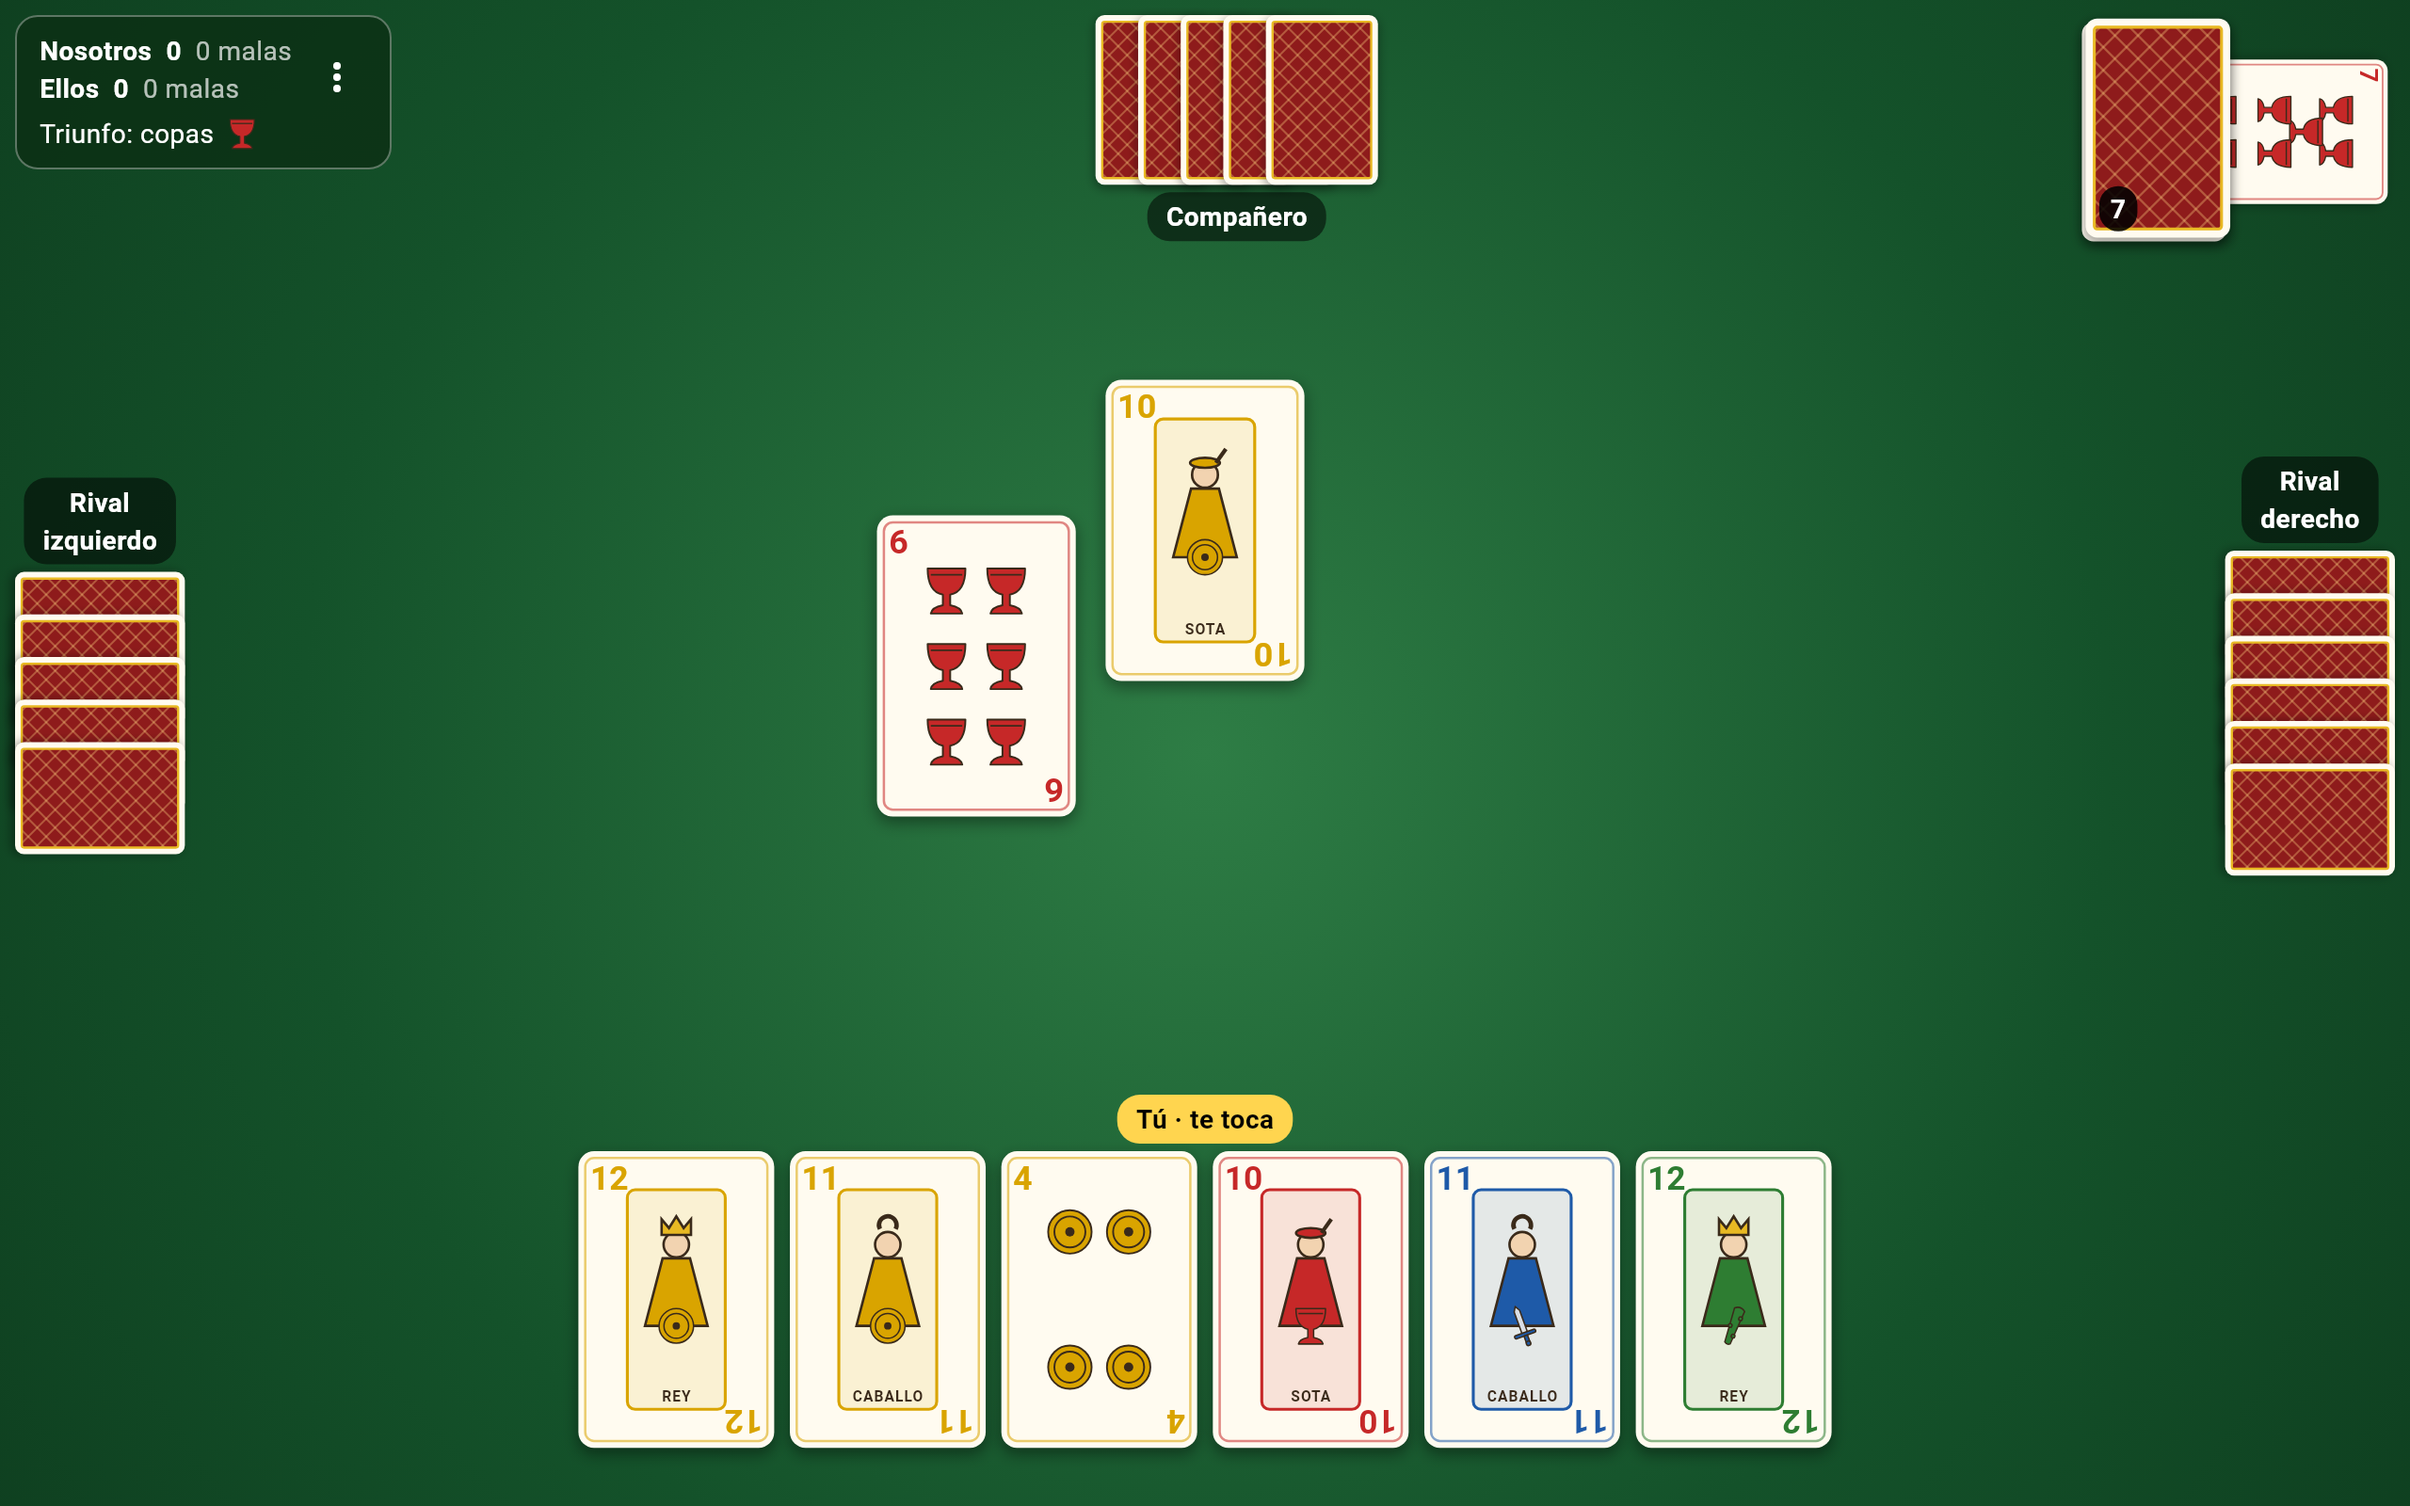
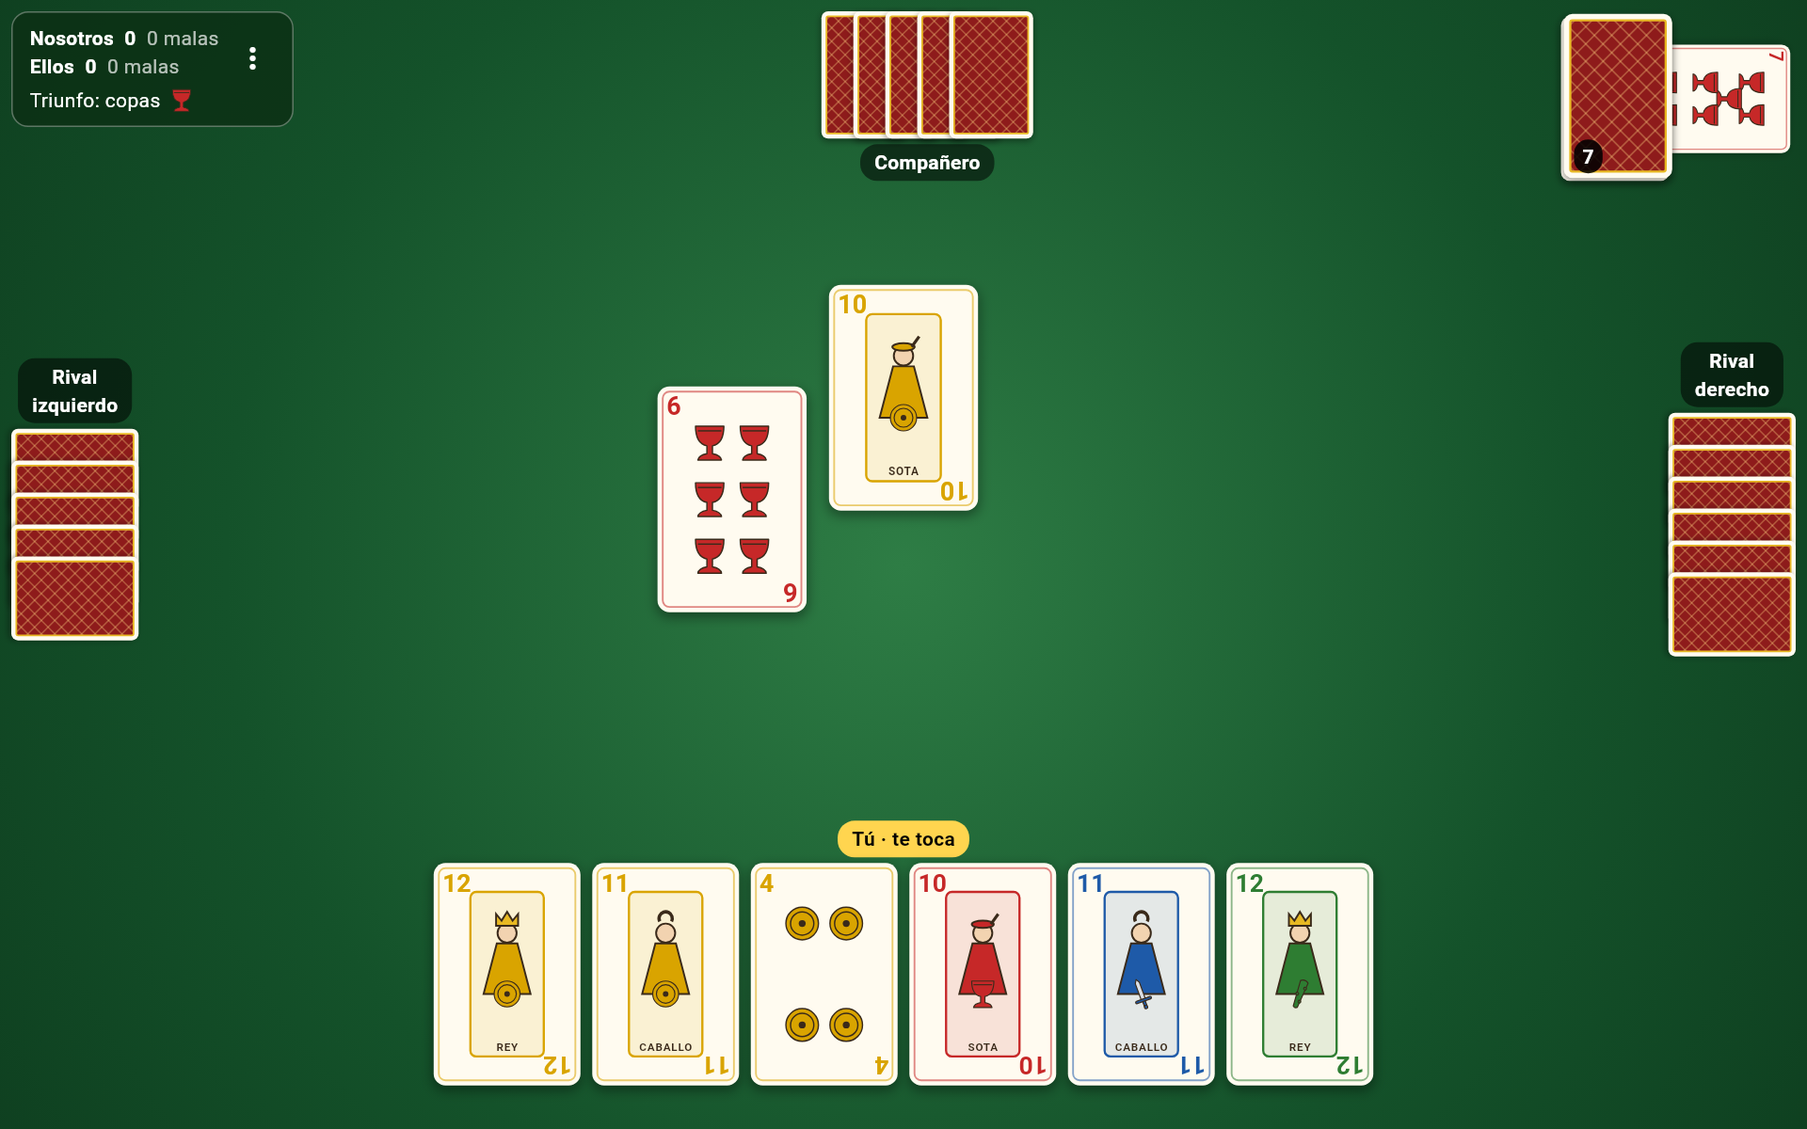
README, publicación web y release del APK
- README con capturas, arquitectura, tests y cómo ejecutarlo.
- GitHub Pages: la web se publica en cada push a main.
- Release: al etiquetar v*, se compila el APK y se adjunta a la release.
- Capturas a escala 1,5 para que pesen menos.

diff --git a/app/test/capturas/capturas_test.dart b/app/test/capturas/capturas_test.dart
@@ -18,6 +18,9 @@ import 'package:guinote_core/guinote_core.dart';
 
 const bool generar = bool.fromEnvironment('CAPTURAS');
 const ia = Ia();
+
+/// Píxeles por punto lógico de las capturas.
+const double escala = 1.5;
 final salida = Directory('../docs/capturas');
 
 Future<void> cargarFuentes() async {
@@ -47,8 +50,8 @@ Future<ControladorPartida> jugarHasta(
   int semilla,
   bool Function(ControladorPartida c) hasta,
 ) async {
-  tester.view.devicePixelRatio = 2;
-  tester.view.physicalSize = tamano * 2;
+  tester.view.devicePixelRatio = escala;
+  tester.view.physicalSize = tamano * escala;
   addTearDown(tester.view.reset);
   // Por defecto los tests dibujan las sombras como bloques negros; se
   // restaura en [cerrar], dentro del propio test.
@@ -78,7 +81,7 @@ Future<void> guardar(WidgetTester tester, String nombre) async {
     find.byKey(const ValueKey('captura')),
   );
   await tester.runAsync(() async {
-    final imagen = await limite.toImage(pixelRatio: 2);
+    final imagen = await limite.toImage(pixelRatio: escala);
     final png = await imagen.toByteData(format: ui.ImageByteFormat.png);
     salida.createSync(recursive: true);
     File('${salida.path}/$nombre.png')

diff --git a/README.md b/README.md
@@ -1,0 +1,82 @@
+# Guiñote
+
+El guiñote es el juego de cartas tradicional de Aragón y Valencia. Esta versión, hecha en Flutter para web y Android, te sienta a la mesa con un compañero contra dos rivales, y los tres los maneja el ordenador.
+
+![Mesa de juego en escritorio](docs/capturas/mesa_escritorio.png)
+
+<p align="center">
+  <img src="docs/capturas/mesa_movil.png" alt="Mesa de juego en móvil" width="280">
+  &nbsp;
+  <img src="docs/capturas/mesa_arrastre.png" alt="Arrastre: solo se puede echar el triunfo que mata" width="520">
+</p>
+
+## Qué incluye
+
+- **Las reglas completas del guiñote aragonés**, especificadas en [REGLAS.md](REGLAS.md): reparto, robos, obligaciones del arrastre, cantes de 20 y 40, cambio del 7 de triunfo, diez de últimas, malas y buenas, y manos de vueltas.
+- **Una IA para los otros tres jugadores.** Carga puntos a su compañero, mata con la carta más barata, guarda los triunfos y las parejas de rey y caballo, y en el arrastre cuenta las cartas. Gana más del 75 % de las partidas a jugadores aleatorios.
+- **Una interfaz adaptable** a escritorio y móvil:
+  - en tu turno solo se pueden echar las cartas legales;
+  - los botones de cantar y de cambiar el 7 aparecen solo cuando se pueden usar;
+  - la baza se recoge sola a los 3 segundos;
+  - al acabar cada mano se muestra el recuento.
+- **Cartas dibujadas por código** con `CustomPainter`: los cuatro palos, los números, las figuras y el dorso. No usa imágenes de terceros.
+
+## Arquitectura
+
+```
+packages/guinote_core/   Dart puro, sin Flutter: reglas, estado, puntuación e IA
+app/                     Flutter: pantalla, animaciones y controlador de partida
+```
+
+- **Las reglas, separadas de la interfaz.** `guinote_core` es un paquete Dart independiente y no puede importar Flutter. Sus tests corren con `dart test` en segundos.
+- **Estado inmutable.** `EstadoMano` es inmutable y cada acción (`jugar`, `recoger`, `cantar`, `cambiarSiete`) devuelve un estado nuevo o lanza `AccionInvalida`. Así se puede repetir cualquier partida y probar cualquier situación.
+- **Una sola fuente de verdad para las reglas.** La interfaz y la IA usan la misma función de jugadas legales, así que la interfaz no valida reglas por su cuenta.
+- **Una IA que no hace trampas.** Solo recibe una `VistaJugador`, con su mano y lo que hay en la mesa. Las cartas de los demás y el orden del mazo no están a su alcance.
+- **Azar controlado.** El `Random` se pasa con semilla, de modo que los tests y las capturas siempre salen iguales.
+- **Un controlador pequeño.** `ControladorPartida` es un `ChangeNotifier` que conecta el motor con la pantalla: gestiona los turnos de la IA, los tiempos y los avisos. No usa librerías de gestión de estado.
+
+| Archivo | Contenido |
+|---|---|
+| [`reglas.dart`](packages/guinote_core/lib/src/reglas.dart) | Ganador de la baza y obligaciones del arrastre, como funciones puras |
+| [`estado_mano.dart`](packages/guinote_core/lib/src/estado_mano.dart) | Reparto, turnos, robos, cantes, cambio del 7 y recuento |
+| [`partida.dart`](packages/guinote_core/lib/src/partida.dart) | Malas, buenas, vueltas y ganador |
+| [`ia.dart`](packages/guinote_core/lib/src/ia.dart) | Estrategia heurística |
+| [`controlador_partida.dart`](app/lib/src/juego/controlador_partida.dart) | Ritmo de la partida en pantalla |
+| [`pintor_carta.dart`](app/lib/src/cartas/pintor_carta.dart) | Baraja española dibujada por código |
+
+## Tests
+
+```bash
+cd packages/guinote_core && dart test     # 82 tests del motor y la IA
+cd app && flutter test                    # 10 tests del controlador y la mesa
+```
+
+- **Reglas:** hay un test por cada regla. Cubren el orden y los puntos de las cartas, el ganador de la baza, cada obligación del arrastre (incluido el caso de no tener que matar a tu compañero), los cantes, el cambio del 7, los robos y la puntuación con vueltas.
+- **Simulación:** se juegan 500 manos y 50 partidas al azar. En cada paso se comprueba que siempre hay alguna carta legal, que ninguna carta se pierde ni se duplica y que cada mano reparte 130 puntos más los cantes.
+- **IA:** hay tests de jugadas concretas y una prueba de fuerza contra jugadores aleatorios.
+- **Interfaz:** los tests usan temporizadores simulados. Comprueban que la baza se recoge a los 3 segundos, que el compañero espera si puedes cantar y que la IA no canta por ti.
+
+La integración continua de GitHub Actions comprueba el formato, el análisis estático y los tests, y compila la web.
+
+## Cómo ejecutarlo
+
+Requisitos: Flutter 3.47 o posterior.
+
+```bash
+cd app
+flutter pub get
+flutter run -d chrome        # web
+flutter run                  # Android, con un dispositivo o emulador
+flutter build apk --release  # APK
+```
+
+Las capturas de este README se generan con un test que usa fuentes reales y tiempo simulado:
+
+```bash
+cd app && flutter test --dart-define=CAPTURAS=true test/capturas
+```
+
+## Próximos pasos
+
+- Partidas en línea entre personas.
+- Una IA más fuerte que intente adivinar qué cartas tienen los demás.

diff --git a/CLAUDE.md b/CLAUDE.md
@@ -46,6 +46,6 @@ flutter test --dart-define=CAPTURAS=true test/capturas
 1. Motor de reglas y tests ✓
 2. IA de los tres jugadores del ordenador ✓
 3. Interfaz de mesa ✓
-4. Pulido: README con capturas, despliegue web, APK
+4. Pulido: README con capturas ✓, APK ✓, flujos de despliegue web y release ✓ (pendiente: subir a GitHub y activar Pages)
 
 Se trabaja fase a fase y se espera la aprobación del usuario antes de empezar la siguiente.
